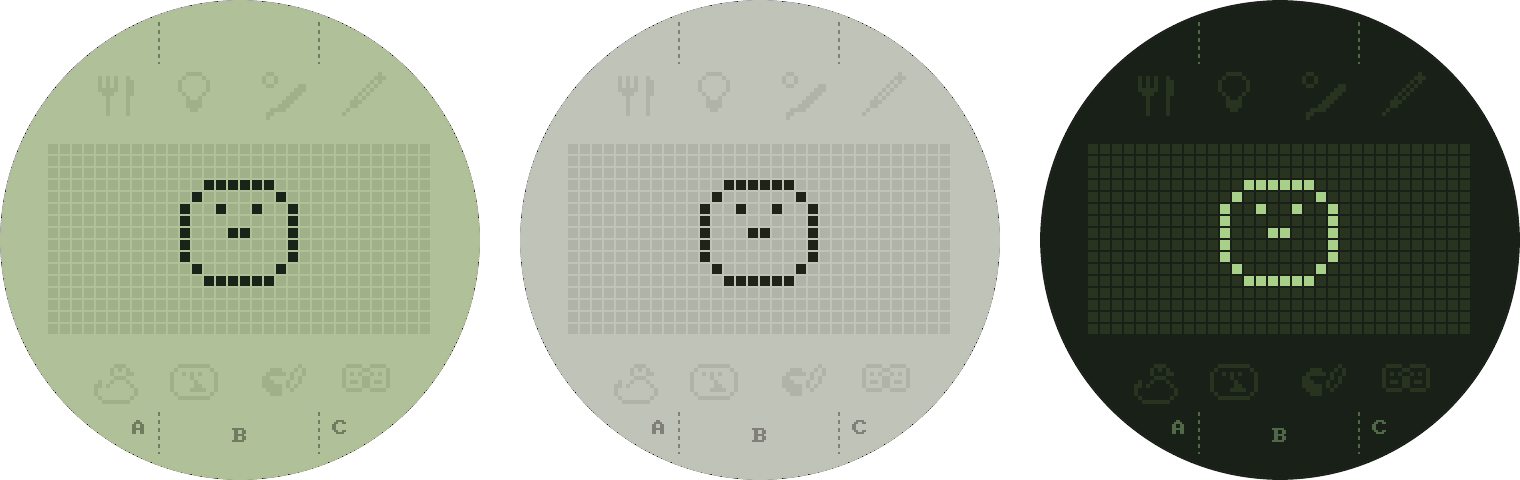
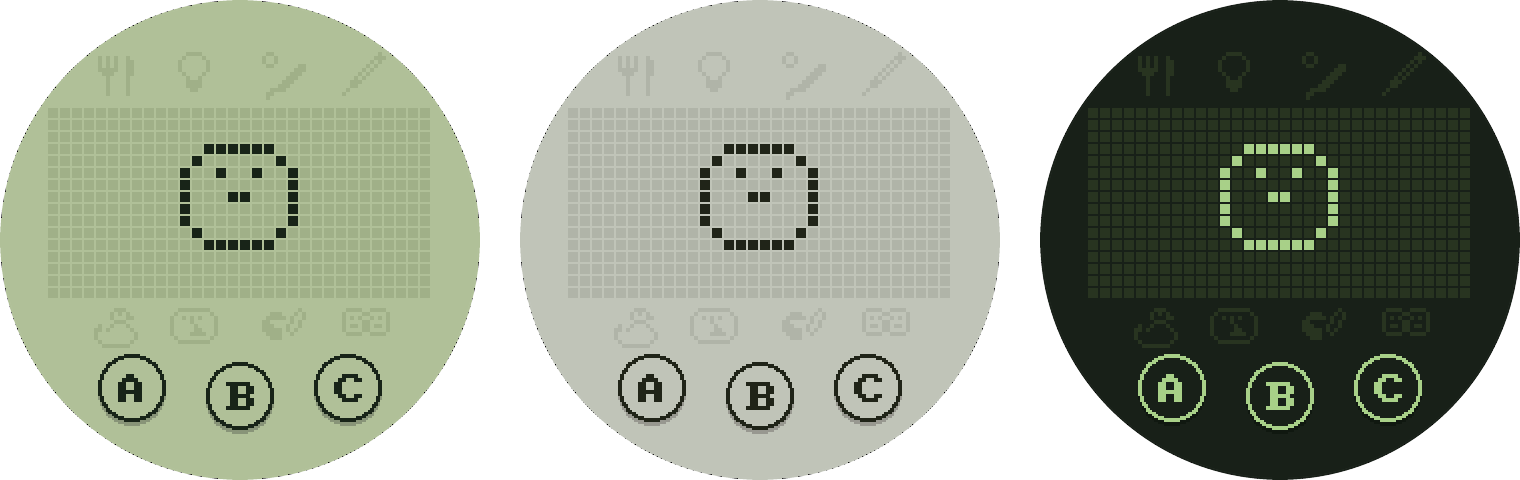
ui: pet screen draws A/B/C as round buttons under a full-size LCD
Icons move to y 38 and 164, the LCD to y 54; the keys are raised discs
with a shadow, filled when held. The dashed dividers, hint letters and
held-zone tint go. The README images are re-rendered from the same ball
frames (render_preview takes a frame file now).

diff --git a/test/host/test_ui_render.c b/test/host/test_ui_render.c
@@ -20,7 +20,7 @@ void tearDown(void) {}
 
 #define PX(x, y) fb[(y) * UI_W + (x)]
 
-static void render(uint8_t held, bool hints) { ui_render_pet(fb, &frame, TC_MODEL_P1, held, hints, &UI_PALETTE_CLASSIC); }
+static void render(uint8_t held) { ui_render_pet(fb, &frame, TC_MODEL_P1, held, &UI_PALETTE_CLASSIC); }
 
 static void test_rgb565_classic(void)
 {
@@ -31,7 +31,7 @@ static void test_rgb565_classic(void)
 
 static void test_outside_circle_black(void)
 {
-    render(0, true);
+    render(0);
     TEST_ASSERT_EQUAL_HEX16(0x0000, PX(0, 0));
     TEST_ASSERT_EQUAL_HEX16(0x0000, PX(239, 0));
     TEST_ASSERT_EQUAL_HEX16(0x0000, PX(239, 239));
@@ -41,72 +41,139 @@ static void test_outside_circle_black(void)
 static void test_lit_and_ghost(void)
 {
     frame.rows[0] = 1u;  // pixel (0,0)
-    render(0, true);
-    TEST_ASSERT_EQUAL_HEX16(INK, PX(24, 72));
-    TEST_ASSERT_EQUAL_HEX16(INK, PX(28, 76));
-    TEST_ASSERT_EQUAL_HEX16(GHOST, PX(30, 72));   // pixel (1,0) unlit
+    render(0);
+    TEST_ASSERT_EQUAL_HEX16(INK, PX(24, 54));
+    TEST_ASSERT_EQUAL_HEX16(INK, PX(28, 58));
+    TEST_ASSERT_EQUAL_HEX16(GHOST, PX(30, 54));   // pixel (1,0) unlit
 }
 
 static void test_pixel_gap(void)
 {
     frame.rows[0] = 0xFFFFFFFFu;
-    render(0, true);
-    TEST_ASSERT_EQUAL_HEX16(BG, PX(29, 72));   // gap column of pixel (0,0)
-    TEST_ASSERT_EQUAL_HEX16(BG, PX(24, 77));   // gap row
+    render(0);
+    TEST_ASSERT_EQUAL_HEX16(BG, PX(29, 54));   // gap column of pixel (0,0)
+    TEST_ASSERT_EQUAL_HEX16(BG, PX(24, 59));   // gap row
 }
 
 static void test_last_pixel_position(void)
 {
-    frame.rows[15] = 1u << 31;  // pixel (31,15) at x=24+186, y=72+90
-    render(0, true);
-    TEST_ASSERT_EQUAL_HEX16(INK, PX(210, 162));
-    TEST_ASSERT_EQUAL_HEX16(INK, PX(214, 166));
+    frame.rows[15] = 1u << 31;  // pixel (31,15) at x=24+186, y=54+90
+    render(0);
+    TEST_ASSERT_EQUAL_HEX16(INK, PX(210, 144));
+    TEST_ASSERT_EQUAL_HEX16(INK, PX(214, 148));
 }
 
 static void test_icon_lit(void)
 {
-    frame.icons = 1u << 7;  // Attention: bottom row, centre (183,192), top-left (171,180)
-    render(0, true);
-    TEST_ASSERT_EQUAL_HEX16(INK, PX(171 + 2, 180 + 2));
-    TEST_ASSERT_EQUAL_HEX16(INK, PX(171 + 3, 180 + 3));
-    TEST_ASSERT_EQUAL_HEX16(BG, PX(171, 180));     // cell (0,0) is off
+    frame.icons = 1u << 7;  // Attention: bottom row, centre (183,164), top-left (171,152)
+    render(0);
+    TEST_ASSERT_EQUAL_HEX16(INK, PX(171 + 2, 152 + 2));
+    TEST_ASSERT_EQUAL_HEX16(INK, PX(171 + 3, 152 + 3));
+    TEST_ASSERT_EQUAL_HEX16(BG, PX(171, 152));     // cell (0,0) is off
     frame.icons = 0;
-    render(0, true);
-    TEST_ASSERT_EQUAL_HEX16(GHOST, PX(171 + 2, 180 + 2));
+    render(0);
+    TEST_ASSERT_EQUAL_HEX16(GHOST, PX(171 + 2, 152 + 2));
 }
 
 static void test_p2_medicine_differs(void)
 {
     frame.icons = 0xFF;
-    ui_render_pet(fb, &frame, TC_MODEL_P1, 0, true, &UI_PALETTE_CLASSIC);
-    ui_render_pet(fb2, &frame, TC_MODEL_P2, 0, true, &UI_PALETTE_CLASSIC);
+    ui_render_pet(fb, &frame, TC_MODEL_P1, 0, &UI_PALETTE_CLASSIC);
+    ui_render_pet(fb2, &frame, TC_MODEL_P2, 0, &UI_PALETTE_CLASSIC);
     int diffs = 0;
     for (int y = 0; y < UI_H; y++)
         for (int x = 0; x < UI_W; x++)
             if (fb[y * UI_W + x] != fb2[y * UI_W + x]) {
-                TEST_ASSERT_TRUE_MESSAGE(x >= 171 && x <= 194 && y >= 36 && y <= 59, "diff outside Medicine icon");
+                TEST_ASSERT_TRUE_MESSAGE(x >= 171 && x <= 194 && y >= 26 && y <= 49, "diff outside Medicine icon");
                 diffs++;
             }
     TEST_ASSERT_GREATER_THAN(0, diffs);
 }
 
-static void test_held_zone_tint(void)
+static void test_pet_layout(void)
 {
-    render(TC_BTN_MASK(TC_BTN_C), false);
-    uint16_t tint = ui_rgb565(ui_mix(UI_PALETTE_CLASSIC.bg, UI_PALETTE_CLASSIC.ink, 10));
-    TEST_ASSERT_EQUAL_HEX16(tint, PX(230, 120));
-    TEST_ASSERT_EQUAL_HEX16(BG, PX(10, 120));
-    TEST_ASSERT_EQUAL_HEX16(GHOST, PX(170, 72));  // LCD pixels keep their own colour
+    frame.icons = 0xFF;  // every icon ink
+    render(0);
+    TEST_ASSERT_EQUAL_HEX16(GHOST, PX(UI_LCD_X, UI_LCD_Y));   // first dot, unlit
+    TEST_ASSERT_EQUAL_HEX16(BG, PX(UI_LCD_X, UI_LCD_Y - 1));
+    TEST_ASSERT_EQUAL_HEX16(BG, PX(UI_LCD_X, UI_LCD_Y + 96));  // just under the LCD's last dot row
+    // icon boxes: 24 px centred at y 38 (top) and 164 (bottom), x centres 57, 97, 143, 183
+    static const int cx[4] = { 57, 97, 143, 183 }, cy[2] = { 38, 164 };
+    for (int r = 0; r < 2; r++)
+        for (int i = 0; i < 4; i++) {
+            int ink = 0;
+            for (int y = cy[r] - 12; y < cy[r] + 12; y++)
+                for (int x = cx[i] - 12; x < cx[i] + 12; x++) ink += PX(x, y) == INK;
+            TEST_ASSERT_GREATER_THAN_MESSAGE(10, ink, "icon missing at its new place");
+        }
+    // nothing ink between the top icons and the LCD, or between the LCD and the bottom icons
+    for (int x = 30; x < 210; x++) {
+        TEST_ASSERT_NOT_EQUAL_HEX16(INK, PX(x, 51));
+        TEST_ASSERT_NOT_EQUAL_HEX16(INK, PX(x, 151));
+    }
 }
 
-static void test_hints_toggle(void)
+static const int BTN[3] = { TC_BTN_A, TC_BTN_B, TC_BTN_C };
+
+static int ink_near(int cx, int cy, int r)
+{
+    int n = 0;
+    for (int y = cy - r; y <= cy + r; y++)
+        for (int x = cx - r; x <= cx + r; x++)
+            if ((x - cx) * (x - cx) + (y - cy) * (y - cy) <= r * r && PX(x, y) == INK) n++;
+    return n;
+}
+
+static void test_buttons_drawn(void)
+{
+    render(0);
+    for (int i = 0; i < 3; i++) {
+        int cx, cy;
+        ui_button_centre(BTN[i], &cx, &cy);
+        TEST_ASSERT_EQUAL_HEX16(BG, PX(cx, cy + 12));             // inside the key, under the letter
+        TEST_ASSERT_EQUAL_HEX16(INK, PX(cx, cy - (UI_BTN_R - 1)));  // outline
+        TEST_ASSERT_EQUAL_HEX16(INK, PX(cx - (UI_BTN_R - 1), cy));
+        TEST_ASSERT_GREATER_THAN_MESSAGE(10, ink_near(cx, cy, 9), "letter missing");
+        uint16_t shadow = ui_rgb565(ui_mix(UI_PALETTE_CLASSIC.bg, (ui_rgb_t){ 0, 0, 0 }, 22));
+        TEST_ASSERT_EQUAL_HEX16(shadow, PX(cx, cy + UI_BTN_R + 1));  // 2 px shadow under the key
+    }
+}
+
+static void test_held_fills(void)
+{
+    render(TC_BTN_MASK(TC_BTN_B));
+    for (int i = 0; i < 3; i++) {
+        int cx, cy;
+        ui_button_centre(BTN[i], &cx, &cy);
+        TEST_ASSERT_EQUAL_HEX16(BTN[i] == TC_BTN_B ? INK : BG, PX(cx, cy + 12));
+    }
+    int bx, by;
+    ui_button_centre(TC_BTN_B, &bx, &by);
+    int letter_bg = 0;  // the held key's letter turns background colour
+    for (int y = by - 8; y < by + 8; y++)
+        for (int x = bx - 8; x < bx + 8; x++) letter_bg += PX(x, y) == BG;
+    TEST_ASSERT_GREATER_THAN(10, letter_bg);
+
+    render(TC_BTN_MASK(TC_BTN_A) | TC_BTN_MASK(TC_BTN_C));
+    for (int i = 0; i < 3; i++) {
+        int cx, cy;
+        ui_button_centre(BTN[i], &cx, &cy);
+        TEST_ASSERT_EQUAL_HEX16(BTN[i] == TC_BTN_B ? BG : INK, PX(cx, cy + 12));
+    }
+}
+
+static void test_no_old_hints(void)
 {
     uint16_t hint = ui_rgb565(ui_mix(UI_PALETTE_CLASSIC.bg, UI_PALETTE_CLASSIC.ink, 42));
-    render(0, true);
-    TEST_ASSERT_EQUAL_HEX16(hint, PX(79, 11));
-    TEST_ASSERT_EQUAL_HEX16(hint, PX(159, 206));
-    render(0, false);
-    TEST_ASSERT_EQUAL_HEX16(BG, PX(79, 11));
+    render(0);
+    for (int y = 0; y < UI_H; y++) {
+        TEST_ASSERT_NOT_EQUAL_HEX16(hint, PX(79, y));
+        TEST_ASSERT_NOT_EQUAL_HEX16(hint, PX(159, y));
+    }
+    uint16_t tint = ui_rgb565(ui_mix(UI_PALETTE_CLASSIC.bg, UI_PALETTE_CLASSIC.ink, 10));
+    render(TC_BTN_MASK(TC_BTN_C));
+    TEST_ASSERT_EQUAL_HEX16(BG, PX(230, 120));  // no held-zone tint
+    TEST_ASSERT_NOT_EQUAL_HEX16(tint, PX(200, 100));
 }
 
 static void test_palette_lookup(void)
@@ -631,8 +698,10 @@ int main(void)
     RUN_TEST(test_last_pixel_position);
     RUN_TEST(test_icon_lit);
     RUN_TEST(test_p2_medicine_differs);
-    RUN_TEST(test_held_zone_tint);
-    RUN_TEST(test_hints_toggle);
+    RUN_TEST(test_pet_layout);
+    RUN_TEST(test_buttons_drawn);
+    RUN_TEST(test_held_fills);
+    RUN_TEST(test_no_old_hints);
     RUN_TEST(test_palette_lookup);
     RUN_TEST(test_no_ink_outside_circle);
     RUN_TEST(test_glance_unknown_pet_has_no_hearts);

diff --git a/components/ui/ui_pet.c b/components/ui/ui_pet.c
@@ -1,17 +1,10 @@
 // SPDX-License-Identifier: GPL-3.0-or-later
-// Pet screen: the 32x16 LCD at 6x plus 8 icons .
+// Pet screen: the 32x16 LCD at 6x, 8 icons, and the A/B/C keys under it.
 #include "ui.h"
 #include "ui_internal.h"
 
-#define LCD_X 24
-#define LCD_Y 72
-#define LCD_PITCH 6
-#define LCD_DOT 5
-
 static const int ICON_CX[4] = { 57, 97, 143, 183 };
-static const int ICON_CY[2] = { 48, 192 };
-
-static int zone_of(int x) { return x < 80 ? TC_BTN_A : (x < 160 ? TC_BTN_B : TC_BTN_C); }
+static const int ICON_CY[2] = { 38, 164 };  // top row partly in the top swipe band: drawn, never pressed
 
 static void fill(uint16_t *fb, int x, int y, int w, int h, uint16_t c)
 {
@@ -19,39 +12,26 @@ static void fill(uint16_t *fb, int x, int y, int w, int h, uint16_t c)
         for (int i = x; i < x + w; i++) fb[j * UI_W + i] = c;
 }
 
-static void draw_hints(uint16_t *fb, uint16_t c)
+// A raised key: shadow 2 px lower, ink outline 2 px, face bg (ink when held), letter at scale 2 in the other colour.
+static void draw_button(uint16_t *fb, int btn, bool held, uint16_t bg, uint16_t ink, uint16_t shadow)
 {
-    static const int lines_x[2] = { 79, 159 };
-    static const int spans[2][2] = { { 11, 31 }, { 206, 226 } };
-    for (int l = 0; l < 2; l++)
-        for (int s = 0; s < 2; s++)
-            for (int y = spans[s][0]; y <= spans[s][1]; y++)
-                if (((y - spans[s][0]) & 3) < 2) fb[y * UI_W + lines_x[l]] = c;  // 2 px on, 2 px off
-    ui_draw_glyph(fb, 66, 210, 'A', 1, c);
-    ui_draw_glyph(fb, 116, 214, 'B', 1, c);
-    ui_draw_glyph(fb, 166, 210, 'C', 1, c);
+    int cx, cy;
+    ui_button_centre(btn, &cx, &cy);
+    const int d = 2 * UI_BTN_R, x = cx - UI_BTN_R, y = cy - UI_BTN_R;
+    ui_fill_disc(fb, x, y + 2, d, shadow);
+    ui_fill_disc(fb, x, y, d, ink);
+    ui_fill_disc(fb, x + 2, y + 2, d - 4, held ? ink : bg);
+    const char letter[2] = { (char)('A' + btn - TC_BTN_A), 0 };
+    ui_draw_text(fb, cx - ui_text_width(letter, 2) / 2, cy - 7, letter, 2, held ? bg : ink);
 }
 
-void ui_render_pet(uint16_t *fb, const tc_frame_t *f, tc_model_t model,
-                   uint8_t held_mask, bool hints, const ui_palette_t *p)
+void ui_render_pet(uint16_t *fb, const tc_frame_t *f, tc_model_t model, uint8_t held_mask, const ui_palette_t *p)
 {
     const uint16_t bg = ui_rgb565(p->bg), ink = ui_rgb565(p->ink);
     const uint16_t ghost = ui_rgb565(ui_mix(p->bg, p->ink, p->ghost_pct));
-    const uint16_t tint = ui_rgb565(ui_mix(p->bg, p->ink, 10));
+    const uint16_t shadow = ui_rgb565(ui_mix(p->bg, (ui_rgb_t){ 0, 0, 0 }, 22));
 
     ui_clear_rows(fb, 0, UI_H - 1, bg);
-    for (int z = 0; z < 3; z++) {  // zones A, B, C are x 0-79, 80-159, 160-239
-        if (!(held_mask & TC_BTN_MASK(zone_of(80 * z)))) continue;
-        for (int y = 0; y < UI_H; y++) {
-            int x0, x1;
-            if (!ui_span(y, y, &x0, &x1)) continue;
-            if (x0 < 80 * z) x0 = 80 * z;
-            if (x1 > 80 * z + 79) x1 = 80 * z + 79;
-            if (x0 <= x1) fill(fb, x0, y, x1 - x0 + 1, 1, tint);
-        }
-    }
-
-    if (hints) draw_hints(fb, ui_rgb565(ui_mix(p->bg, p->ink, 42)));
 
     for (int i = 0; i < 8; i++) {
         const char *const *rows = (i == 3 && model == TC_MODEL_P2) ? UI_ICON_P2_MEDICINE : UI_ICONS[i];
@@ -64,8 +44,11 @@ void ui_render_pet(uint16_t *fb, const tc_frame_t *f, tc_model_t model,
 
     for (int py = 0; py < 16; py++)
         for (int px = 0; px < 32; px++)
-            fill(fb, LCD_X + LCD_PITCH * px, LCD_Y + LCD_PITCH * py, LCD_DOT, LCD_DOT,
+            fill(fb, UI_LCD_X + UI_LCD_PITCH * px, UI_LCD_Y + UI_LCD_PITCH * py, UI_LCD_DOT, UI_LCD_DOT,
                  (f->rows[py] & (1u << px)) ? ink : ghost);
+
+    for (int b = TC_BTN_A; b <= TC_BTN_C; b++)
+        draw_button(fb, b, held_mask & TC_BTN_MASK(b), bg, ink, shadow);
 }
 
 void ui_draw_lcd(uint16_t *fb, int x, int y, int scale, const tc_frame_t *f, const ui_palette_t *p)

diff --git a/test/host/render_preview.c b/test/host/render_preview.c
@@ -1,6 +1,7 @@
 // SPDX-License-Identifier: GPL-3.0-or-later
 // Writes a PPM of one screen for eyeballing. Not a test.
-// Usage: render_preview out.ppm [pet|catchup|battery|picker|message] [held_mask]
+// Usage: render_preview out.ppm [pet|catchup|battery|picker|message] [held_mask] [palette 0-2] [frame.txt]
+//        frame.txt (pet only): 16 lines of 32 '#'/'.' then "icons <hex>"; default: a sample face, Attention lit
 //        render_preview out.ppm <screen> [palette 0-2] [scroll px] [t_ms]
 //        screens: glance, glance-asleep, glance-unknown, settings, sound, brightness, dimming, palette,
 //                 tzregion, tzcity, panel, panel-nowifi (sample values from the design canvas)
@@ -83,7 +84,21 @@ int main(int argc, char **argv)
         const char *names[] = { "P1", "P2" }, *subs[] = { "Gen 1 - tama.bin", "Gen 2 - tamag2.bin" };
         ui_render_picker(fb, names, subs, 2, 0, p);
     } else if (!strcmp(mode, "message")) ui_render_message(fb, "No ROM found", "Put a P1 or P2 dump in\n/tamaorb/roms/ on the SD card,\nor push one over USB.", p);
-    else ui_render_pet(fb, &f, TC_MODEL_P1, argc > 3 ? (uint8_t)(argv[3][0] - '0') : 0, true, p);
+    else {
+        FILE *in = argc > 5 ? fopen(argv[5], "r") : NULL;
+        if (argc > 5 && !in) { perror(argv[5]); return 1; }
+        if (in) {
+            char line[64];
+            unsigned icons = 0;
+            memset(&f, 0, sizeof f);
+            for (int y = 0; y < 16 && fgets(line, sizeof line, in); y++)
+                for (int x = 0; x < 32 && line[x] && line[x] != '\n'; x++)
+                    if (line[x] == '#') f.rows[y] |= 1u << x;
+            if (fgets(line, sizeof line, in) && sscanf(line, "icons %x", &icons) == 1) f.icons = (uint8_t)icons;
+            fclose(in);
+        }
+        ui_render_pet(fb, &f, TC_MODEL_P1, argc > 3 ? (uint8_t)(argv[3][0] - '0') : 0, ui_palette_by_id(argc > 4 ? atoi(argv[4]) : 0));
+    }
     FILE *o = fopen(argc > 1 ? argv[1] : "pet.ppm", "wb");
     fprintf(o, "P6 %d %d 255\n", UI_W, UI_H);
     for (int i = 0; i < UI_W * UI_H; i++) {

diff --git a/components/ui/include/ui.h b/components/ui/include/ui.h
@@ -23,7 +23,7 @@ ui_rgb_t ui_mix(ui_rgb_t a, ui_rgb_t b, uint8_t pct);  // a + (b - a) * pct / 10
 
 // Framebuffer: UI_W * UI_H RGB565 pixels in host byte order (the board swaps for the panel).
 void ui_render_pet(uint16_t *fb, const tc_frame_t *f, tc_model_t model,
-                   uint8_t held_mask, bool hints, const ui_palette_t *p);
+                   uint8_t held_mask, const ui_palette_t *p);
 
 // ---- Touch ----
 // The pet's LCD on the pet screen: 32x16 dots at pitch UI_LCD_PITCH (UI_LCD_DOT lit), 192x96 at (UI_LCD_X, UI_LCD_Y).

diff --git a/main/ui_task.c b/main/ui_task.c
@@ -207,7 +207,7 @@ static void ui_task(void *arg)
             if (frame_new || out.buttons != shown_held || dirty) {
                 tc_frame_t f;
                 tc_get_frame(&f);
-                ui_render_pet(s_fb, &f, s_model, out.buttons, true, pal);
+                ui_render_pet(s_fb, &f, s_model, out.buttons, pal);
                 show();
                 shown_held = out.buttons;
                 drawn = true;
